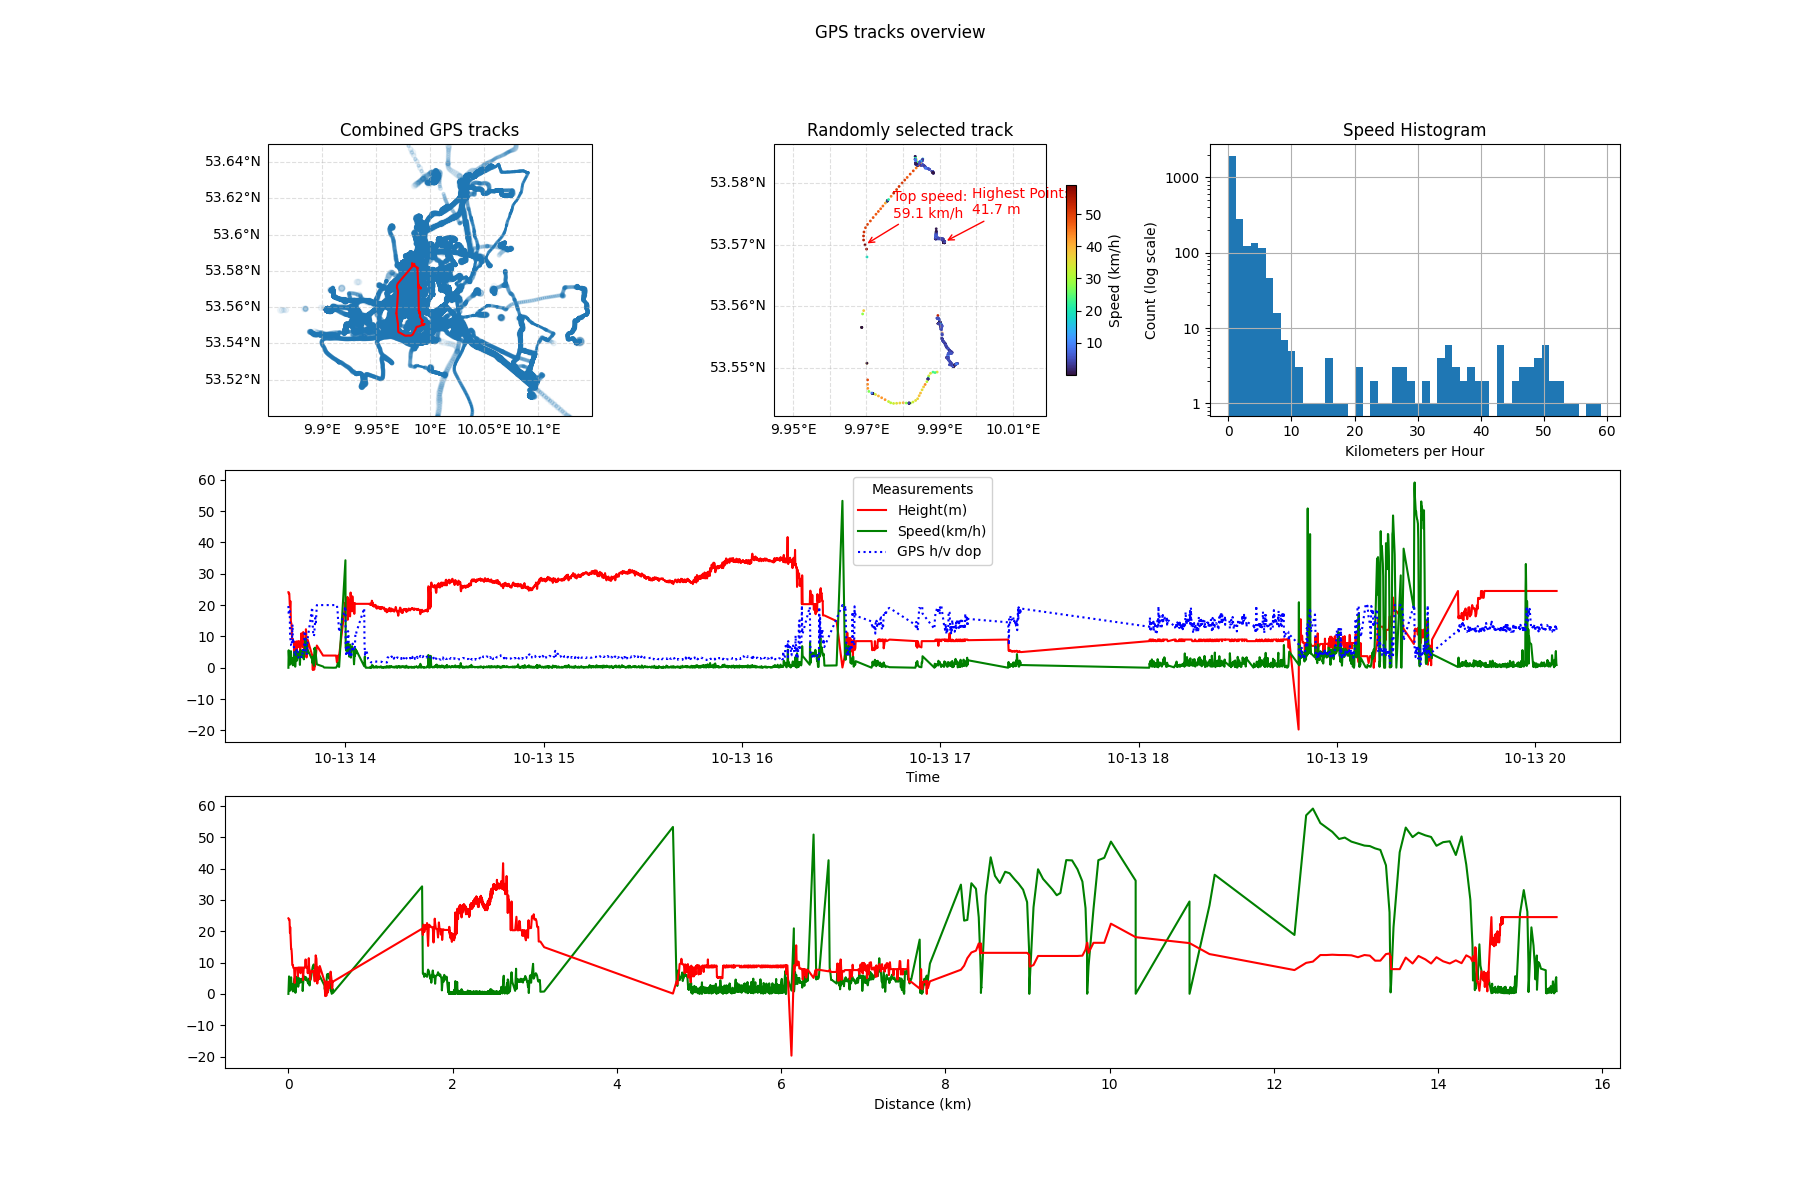
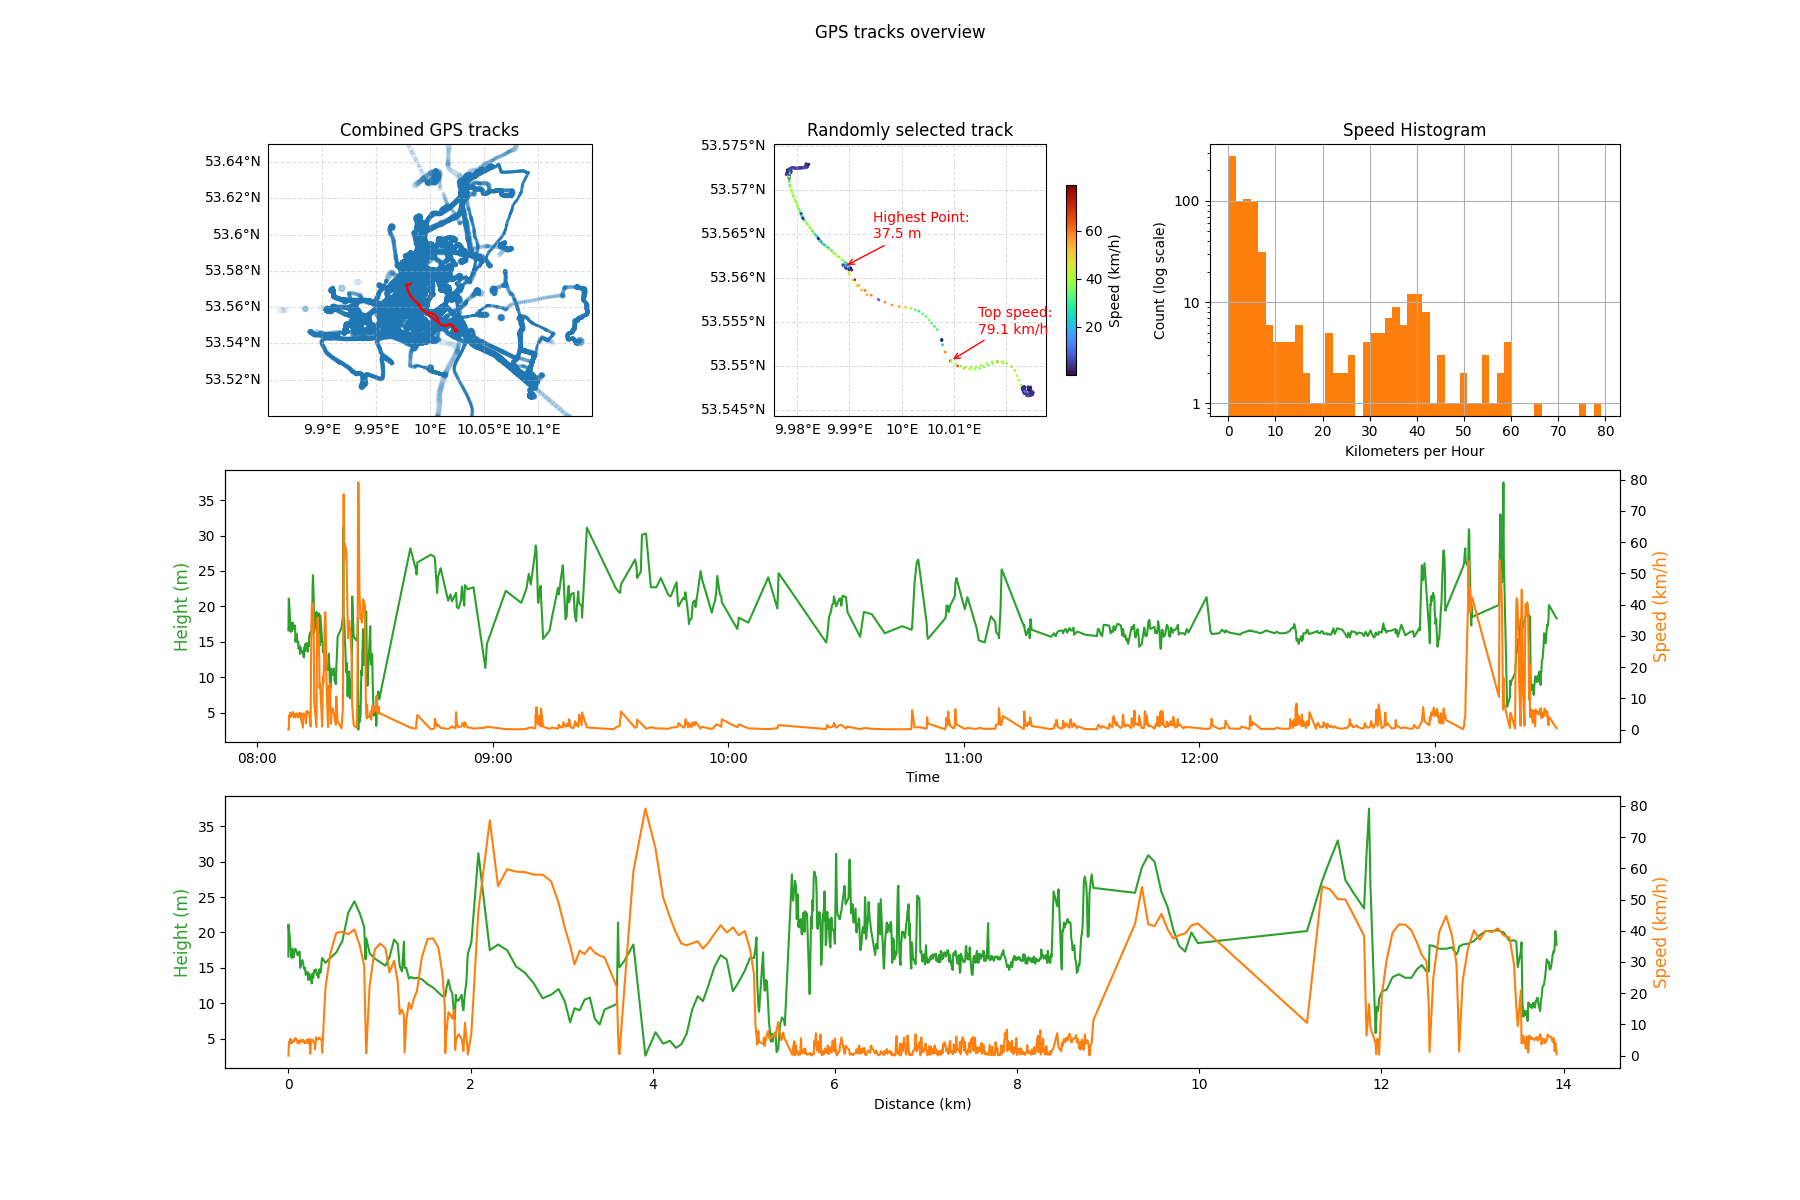
docs(docs): :memo: Updated graphic and added brief descriptions of plots in overview

diff --git a/README.md b/README.md
@@ -26,9 +26,17 @@ I have been recording a lot of GPX logs since moving to Hamburg, and wanted to c
 
 ## Demo
 
+Example output from own gathered data.
+
 ![example figure](example_output.png)
 
-*(Tracks around Hamburg - red line highlights the randomly‑chosen ride; colour scale shows speed; annotations mark top speed & highest point.)*
+**Combined GPS tracks** Shows extent of all logged journeys. A randomly selected track is highlighted in red
+
+**Randomly selected track** Shows detail view of a single track. It is coloured based on speed, annotations show top speed and the highest point
+
+**Speed histogram** Histogram of speed values from all points in the randomly selected track. Log scale makes short fast journeys more prominent
+
+The two plots below show **Height and Speed** against **Time** and **Distance** respectively. Periods without movement get compressed in the Time graph, however movement is still recorded due to imprecise GPS readings
 
 ---
 
